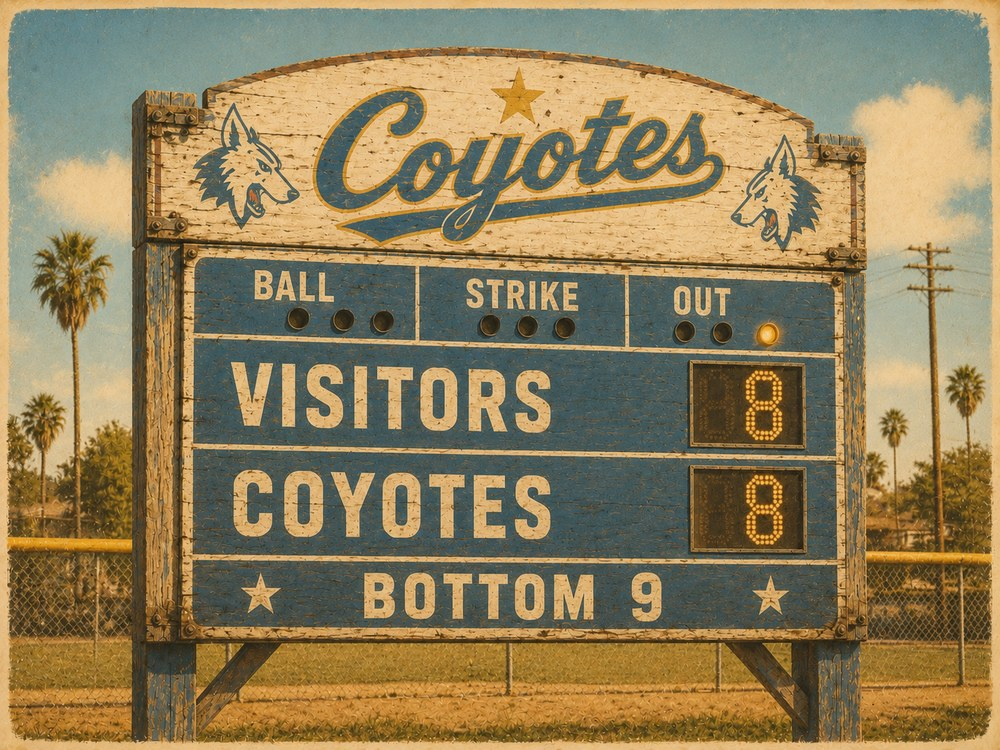
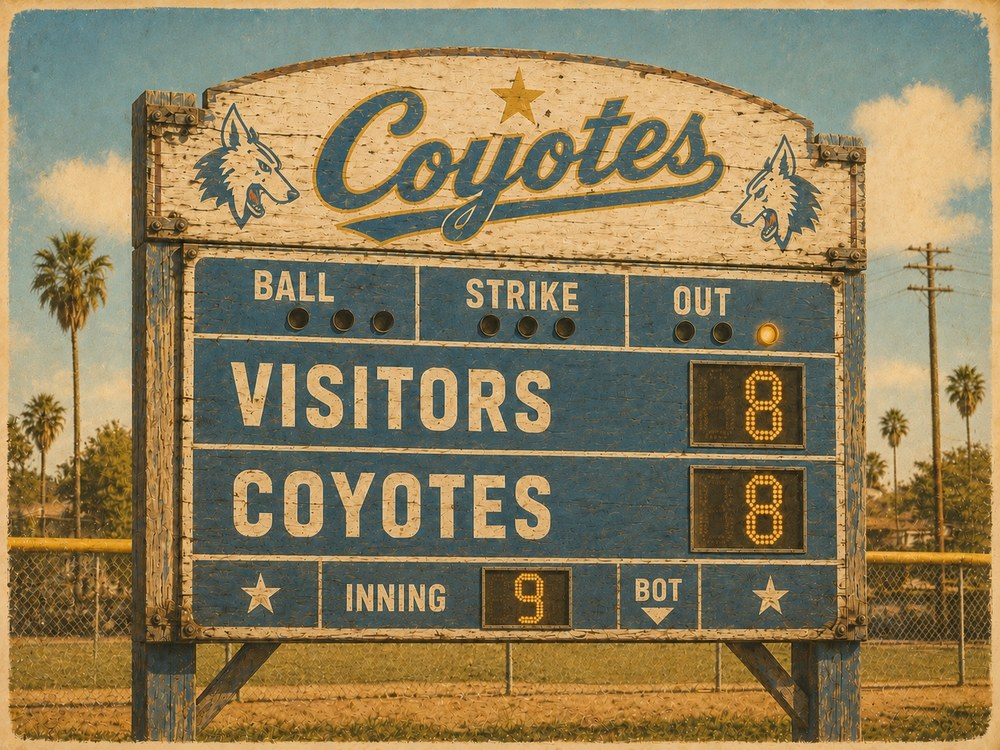
Revised scoreboard image (cache-busted)

diff --git a/index.html b/index.html
@@ -742,7 +742,7 @@ footer .fine{ font-family:"Special Elite",monospace; font-size:11px; letter-spac
       </div>
       <div class="reveal beat interleaved">
         <h3><img class="hicon" src="art/icons/icon-hot-streak.png?v=2" alt="" onerror="this.classList.add('missing')">Hot Streak</h3>
-        <img class="feat wide brown-frame" src="art/locations/loc-scoreboard.jpg" alt="The Coyotes scoreboard" loading="lazy" onerror="this.classList.add('missing');this.textContent=this.alt;this.alt='';">
+        <img class="feat wide brown-frame" src="art/locations/loc-scoreboard.jpg?v=2" alt="The Coyotes scoreboard" loading="lazy" onerror="this.classList.add('missing');this.textContent=this.alt;this.alt='';">
         <p class="body">A day later, they win their first playoff game against a team that was already penciled in as a dead-to-rights L. It's a miracle in the bottom of the ninth when the twins send back-to-back gunners that bring in Sadie and Theo. Eli and Danny are <em>convinced</em> it's the medallion, their new good luck charm.</p>
         <p class="body">But Eli's dad, Sal, notices something else. For the first time, his kids actually had each others' backs out there. Covering for each other. Communicating. Supporting.</p>
         <p class="body">And after, when Theo decodes the matching symbols from the medallion, a collective jaw drops &mdash; the treasure is <em>totally-hundo P-without-question</em> buried one place and one place only&hellip;under Dodger Stadium.</p>
